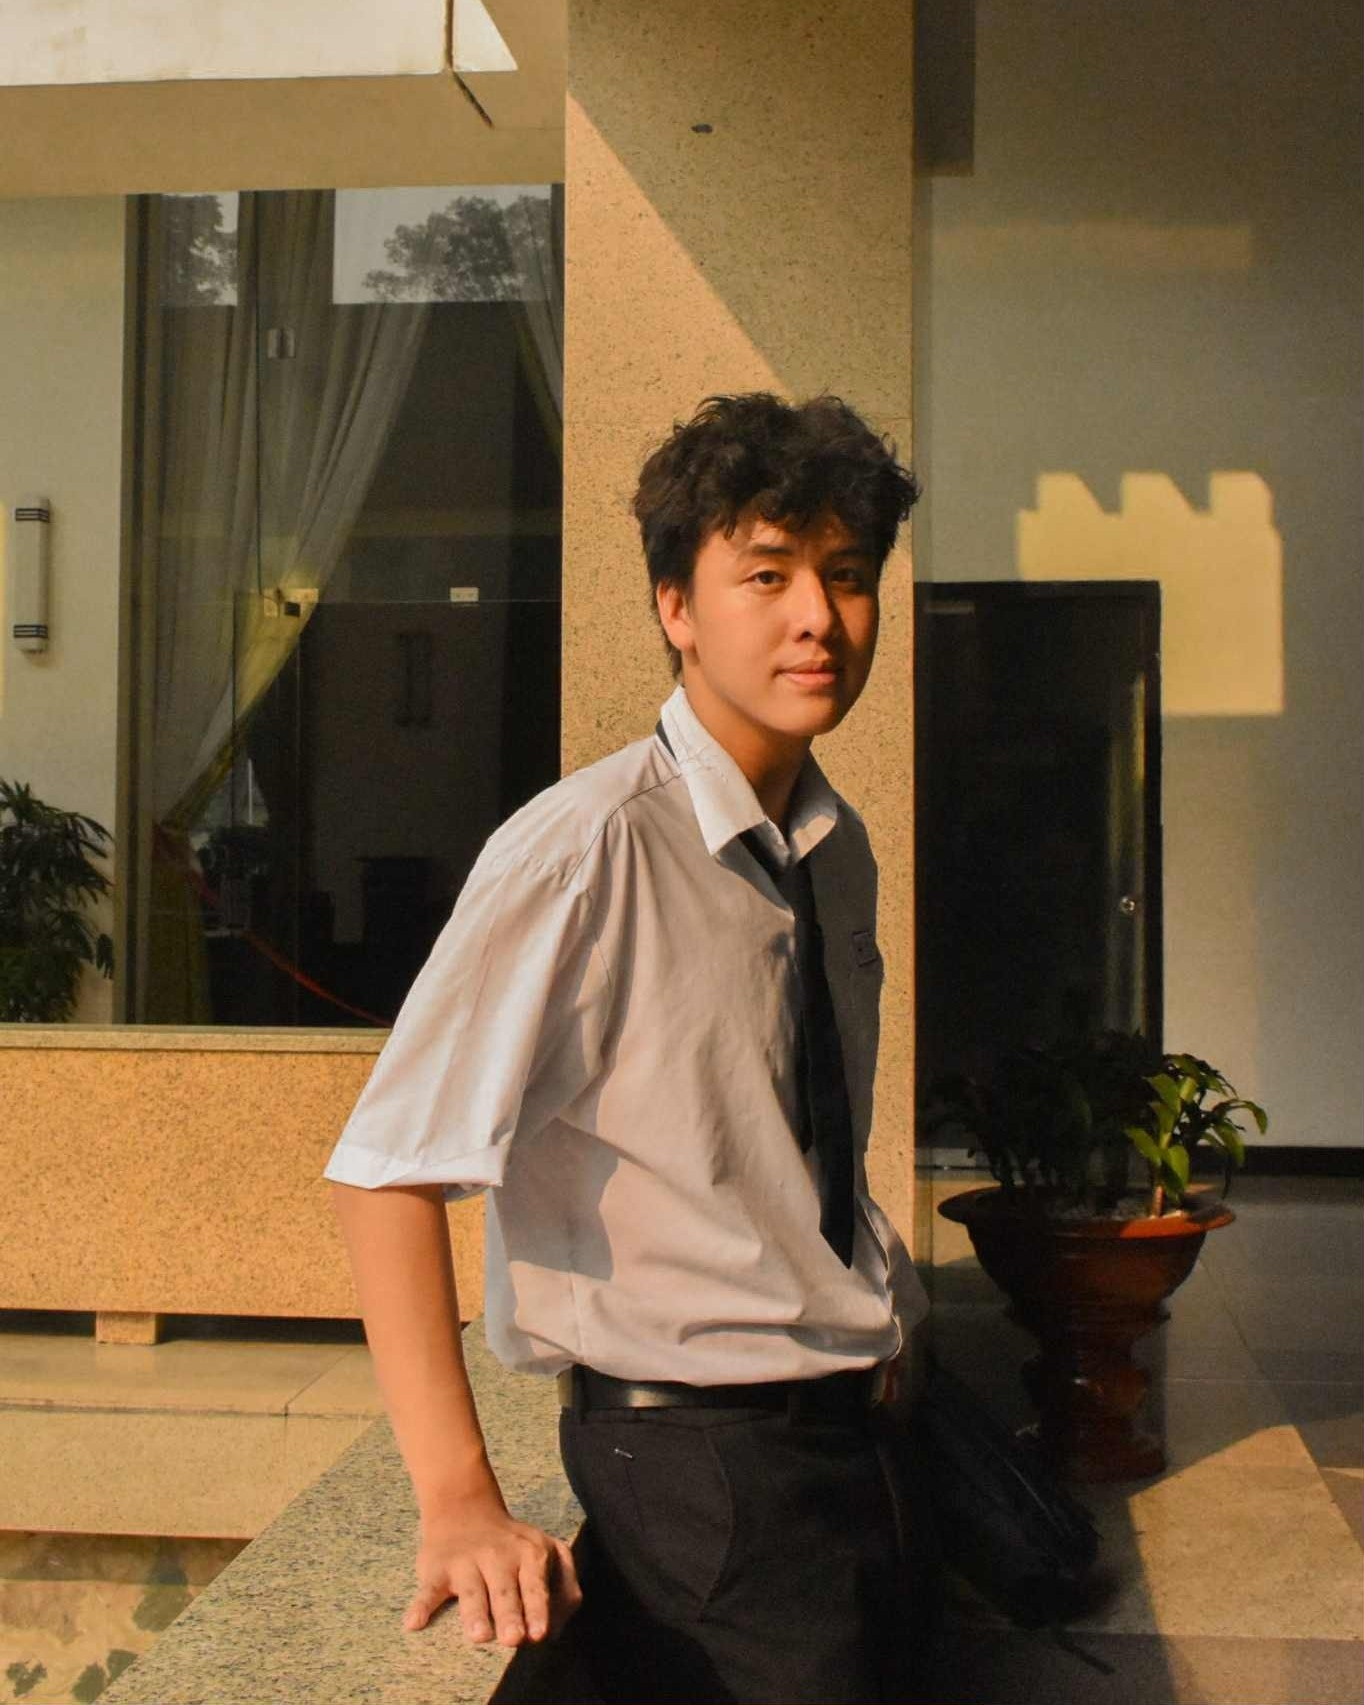
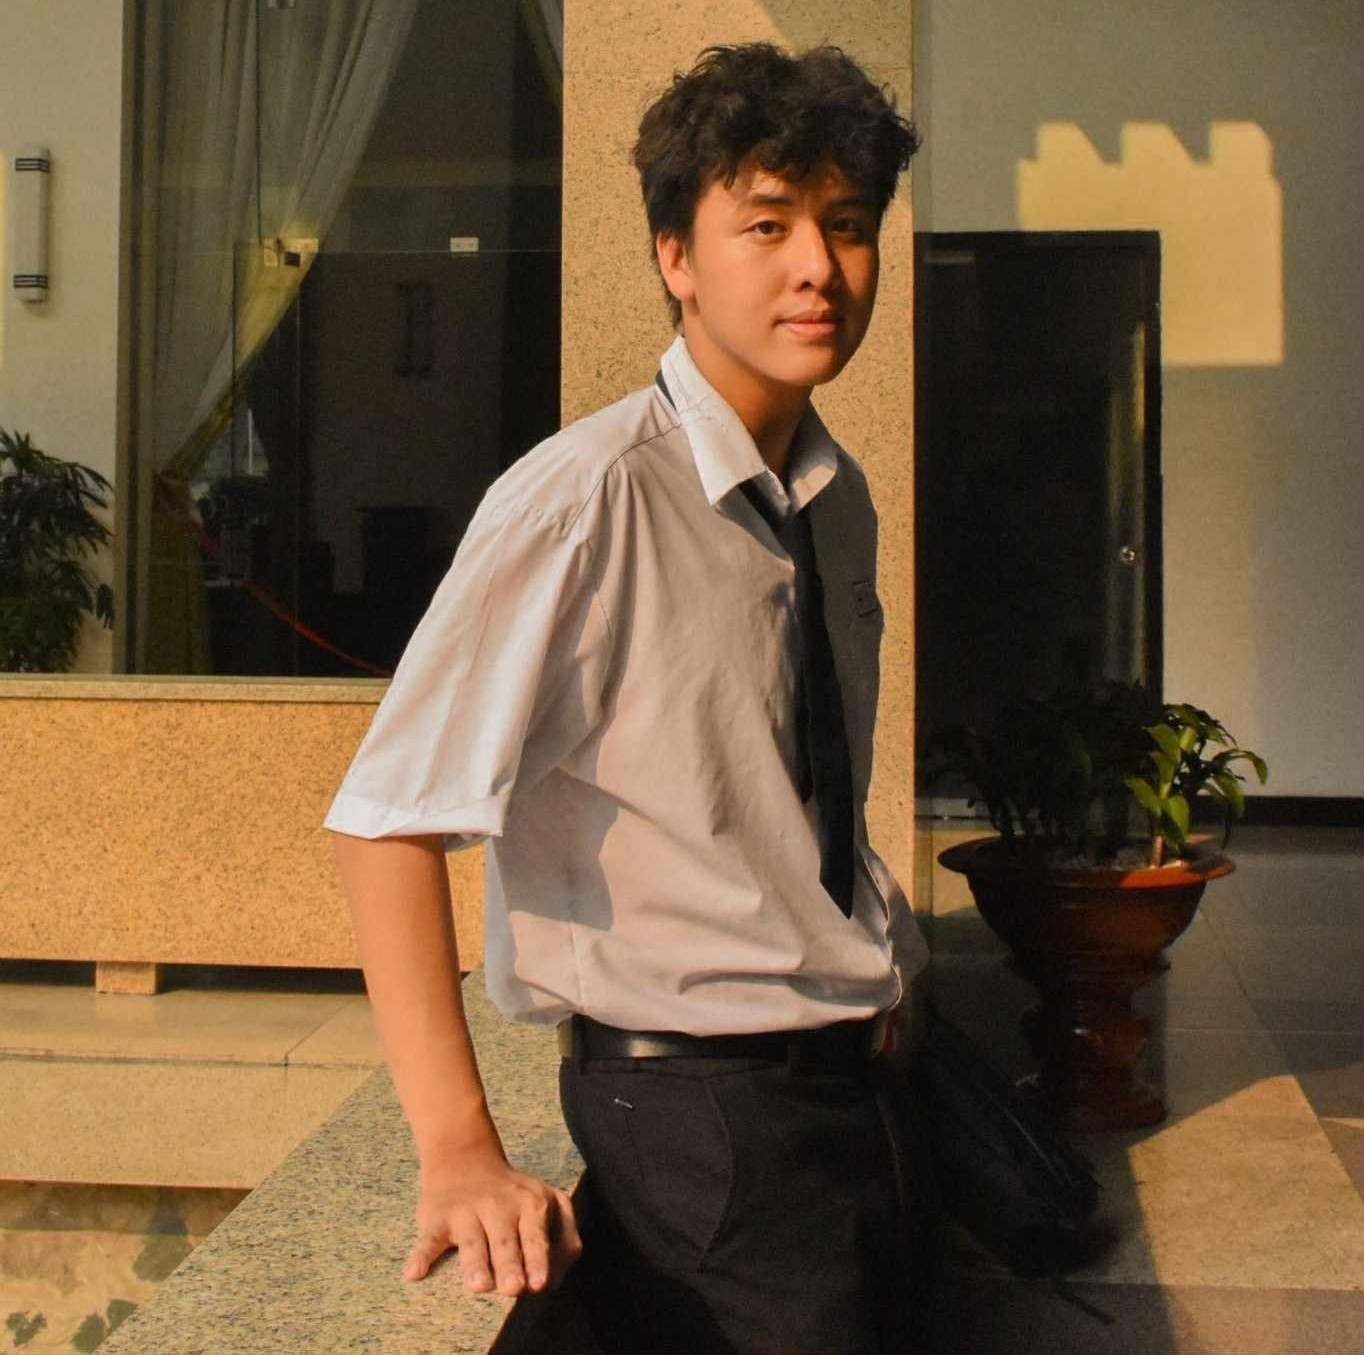
new skills and tech, updated seperated work and projs

diff --git a/js/script.js b/js/script.js
@@ -1,6 +1,6 @@
 if (document.getElementById('my-work-link')) {
   document.getElementById('my-work-link').addEventListener('click', () => {
-    document.getElementById('my-work-section').scrollIntoView({behavior: "smooth"})
+    document.getElementById('work-experience-section').scrollIntoView({behavior: "smooth"})
   })
 }
 
@@ -45,8 +45,8 @@ if (typedTextElement) {
   
   typeText();
 }
-// Scroll animation for project cards (all appear together)
-const projectsContainer = document.querySelector('.projects-container');
+// Scroll animation for project cards (all appear together per section)
+const projectsContainers = document.querySelectorAll('.projects-container');
 
 const observerOptions = {
   threshold: 0.1,
@@ -56,20 +56,18 @@ const observerOptions = {
 const observer = new IntersectionObserver(function(entries) {
   entries.forEach(entry => {
     if (entry.isIntersecting) {
-      // Add visible class to all project cards at once
+      // Add visible class to all project cards in this container
       const cards = entry.target.querySelectorAll('.project-card');
       cards.forEach(card => card.classList.add('visible'));
     } else {
-      // Remove visible class from all project cards
+      // Remove visible class from all project cards in this container
       const cards = entry.target.querySelectorAll('.project-card');
       cards.forEach(card => card.classList.remove('visible'));
     }
   });
 }, observerOptions);
 
-if (projectsContainer) {
-  observer.observe(projectsContainer);
-}
+projectsContainers.forEach(container => observer.observe(container));
 
 // Constellation Background Effect
 const canvas = document.createElement('canvas');
@@ -241,7 +239,9 @@ cards.forEach(card => {
 
 // Scroll Reveal for Sections (with fade out)
 const aboutSection = document.getElementById('about-section');
-const myWorkSection = document.getElementById('my-work-section');
+const skillsSection = document.getElementById('skills-section');
+const workExperienceSection = document.getElementById('work-experience-section');
+const projectsHackathonSection = document.getElementById('projects-hackathon-section');
 
 const sectionObserver = new IntersectionObserver((entries) => {
   entries.forEach(entry => {
@@ -257,8 +257,16 @@ if (aboutSection) {
   sectionObserver.observe(aboutSection);
 }
 
-if (myWorkSection) {
-  sectionObserver.observe(myWorkSection);
+if (skillsSection) {
+  sectionObserver.observe(skillsSection);
+}
+
+if (workExperienceSection) {
+  sectionObserver.observe(workExperienceSection);
+}
+
+if (projectsHackathonSection) {
+  sectionObserver.observe(projectsHackathonSection);
 }
 
 // Progress Bar

diff --git a/index.html b/index.html
@@ -88,10 +88,32 @@
         </div>
       </div>
 
+      <!-- SKILLS / TECH SECTION -->
+      <div id="skills-section">
+        <span class="subheader-text">Skills & Tech</span>
+        <div class="skills-content">
+          <span class="skills-label body-text">Libraries:</span>
+          <span class="skill-pill">Scikit-learn</span>
+          <span class="skill-pill">TensorFlow</span>
+          <span class="skill-pill">PyTorch</span>
+          <span class="skill-pill">Pyspark</span>
+          <span class="skill-pill">Pandas</span>
+          <span class="skill-pill">Numpy</span>
+          <span class="skill-pill">Seaborn</span>
+          <span class="skill-pill">Matplotlib</span>
+          <span class="skills-label body-text">Technologies:</span>
+          <span class="skill-pill">Git</span>
+          <span class="skill-pill">Docker</span>
+          <span class="skill-pill">AWS</span>
+          <span class="skill-pill">Airflow</span>
+          <span class="skill-pill">SQL</span>
+          <span class="skill-pill">Power BI</span>
+        </div>
+      </div>
 
-      <!-- PROJECTS / MY WORK SECTION -->
-      <div id="my-work-section">
-        <span class="subheader-text">Work and Projects</span>
+      <!-- WORK EXPERIENCE SECTION -->
+      <div id="work-experience-section">
+        <span class="subheader-text">Work Experience</span>
 
         <div class="projects-container">
           <div class="project-card">
@@ -133,7 +155,14 @@
               <div class="body-text project-card-text">data transformation, statistical testings</div>
             </div>
           </div>
-          
+        </div>
+      </div>
+
+      <!-- PROJECTS AND HACKATHON SECTION -->
+      <div id="projects-hackathon-section">
+        <span class="subheader-text">Projects & Hackathon</span>
+
+        <div class="projects-container">
           <div class="project-card">
             <img src="./assets/images/microsoft.png" class="project-image">
             <div class="project-card-text-container">
@@ -163,7 +192,6 @@
               </a>
             </div>
           </div>
-          
         </div>
       </div>
     </div>

diff --git a/css/layout.css b/css/layout.css
@@ -75,11 +75,41 @@ body {
 }
 
 
+/* Skills Section */
+
+#skills-section {
+  display: flex;
+  flex-direction: column;
+  gap: 16px;
+}
+
+.skills-content {
+  display: flex;
+  flex-wrap: wrap;
+  gap: 12px;
+}
+
+.skills-label {
+  width: 100%;
+  margin-bottom: 4px;
+  color: rgba(255, 255, 255, 0.8);
+}
+
+.skill-pill {
+  font-size: 14px;
+  font-weight: 500;
+  padding: 8px 16px;
+  border-radius: 50px;
+  border: 1px solid rgba(207, 185, 145, 0.5);
+  background: rgba(207, 185, 145, 0.1);
+  color: #CFB991;
+}
 
 
 /* Project Section */
 
-#my-work-section {
+#work-experience-section,
+#projects-hackathon-section {
   display: flex;
   flex-direction: column;
   gap: 16px;

diff --git a/css/utilities.css b/css/utilities.css
@@ -268,13 +268,26 @@ a.icon-link {
   transform: translateX(0);
 }
 
-#my-work-section {
+#skills-section {
   opacity: 0;
   transform: translateX(-50px);
   transition: opacity 0.8s ease, transform 0.8s ease;
 }
 
-#my-work-section.visible {
+#skills-section.visible {
+  opacity: 1;
+  transform: translateX(0);
+}
+
+#work-experience-section,
+#projects-hackathon-section {
+  opacity: 0;
+  transform: translateX(-50px);
+  transition: opacity 0.8s ease, transform 0.8s ease;
+}
+
+#work-experience-section.visible,
+#projects-hackathon-section.visible {
   opacity: 1;
   transform: translateX(0);
 }
